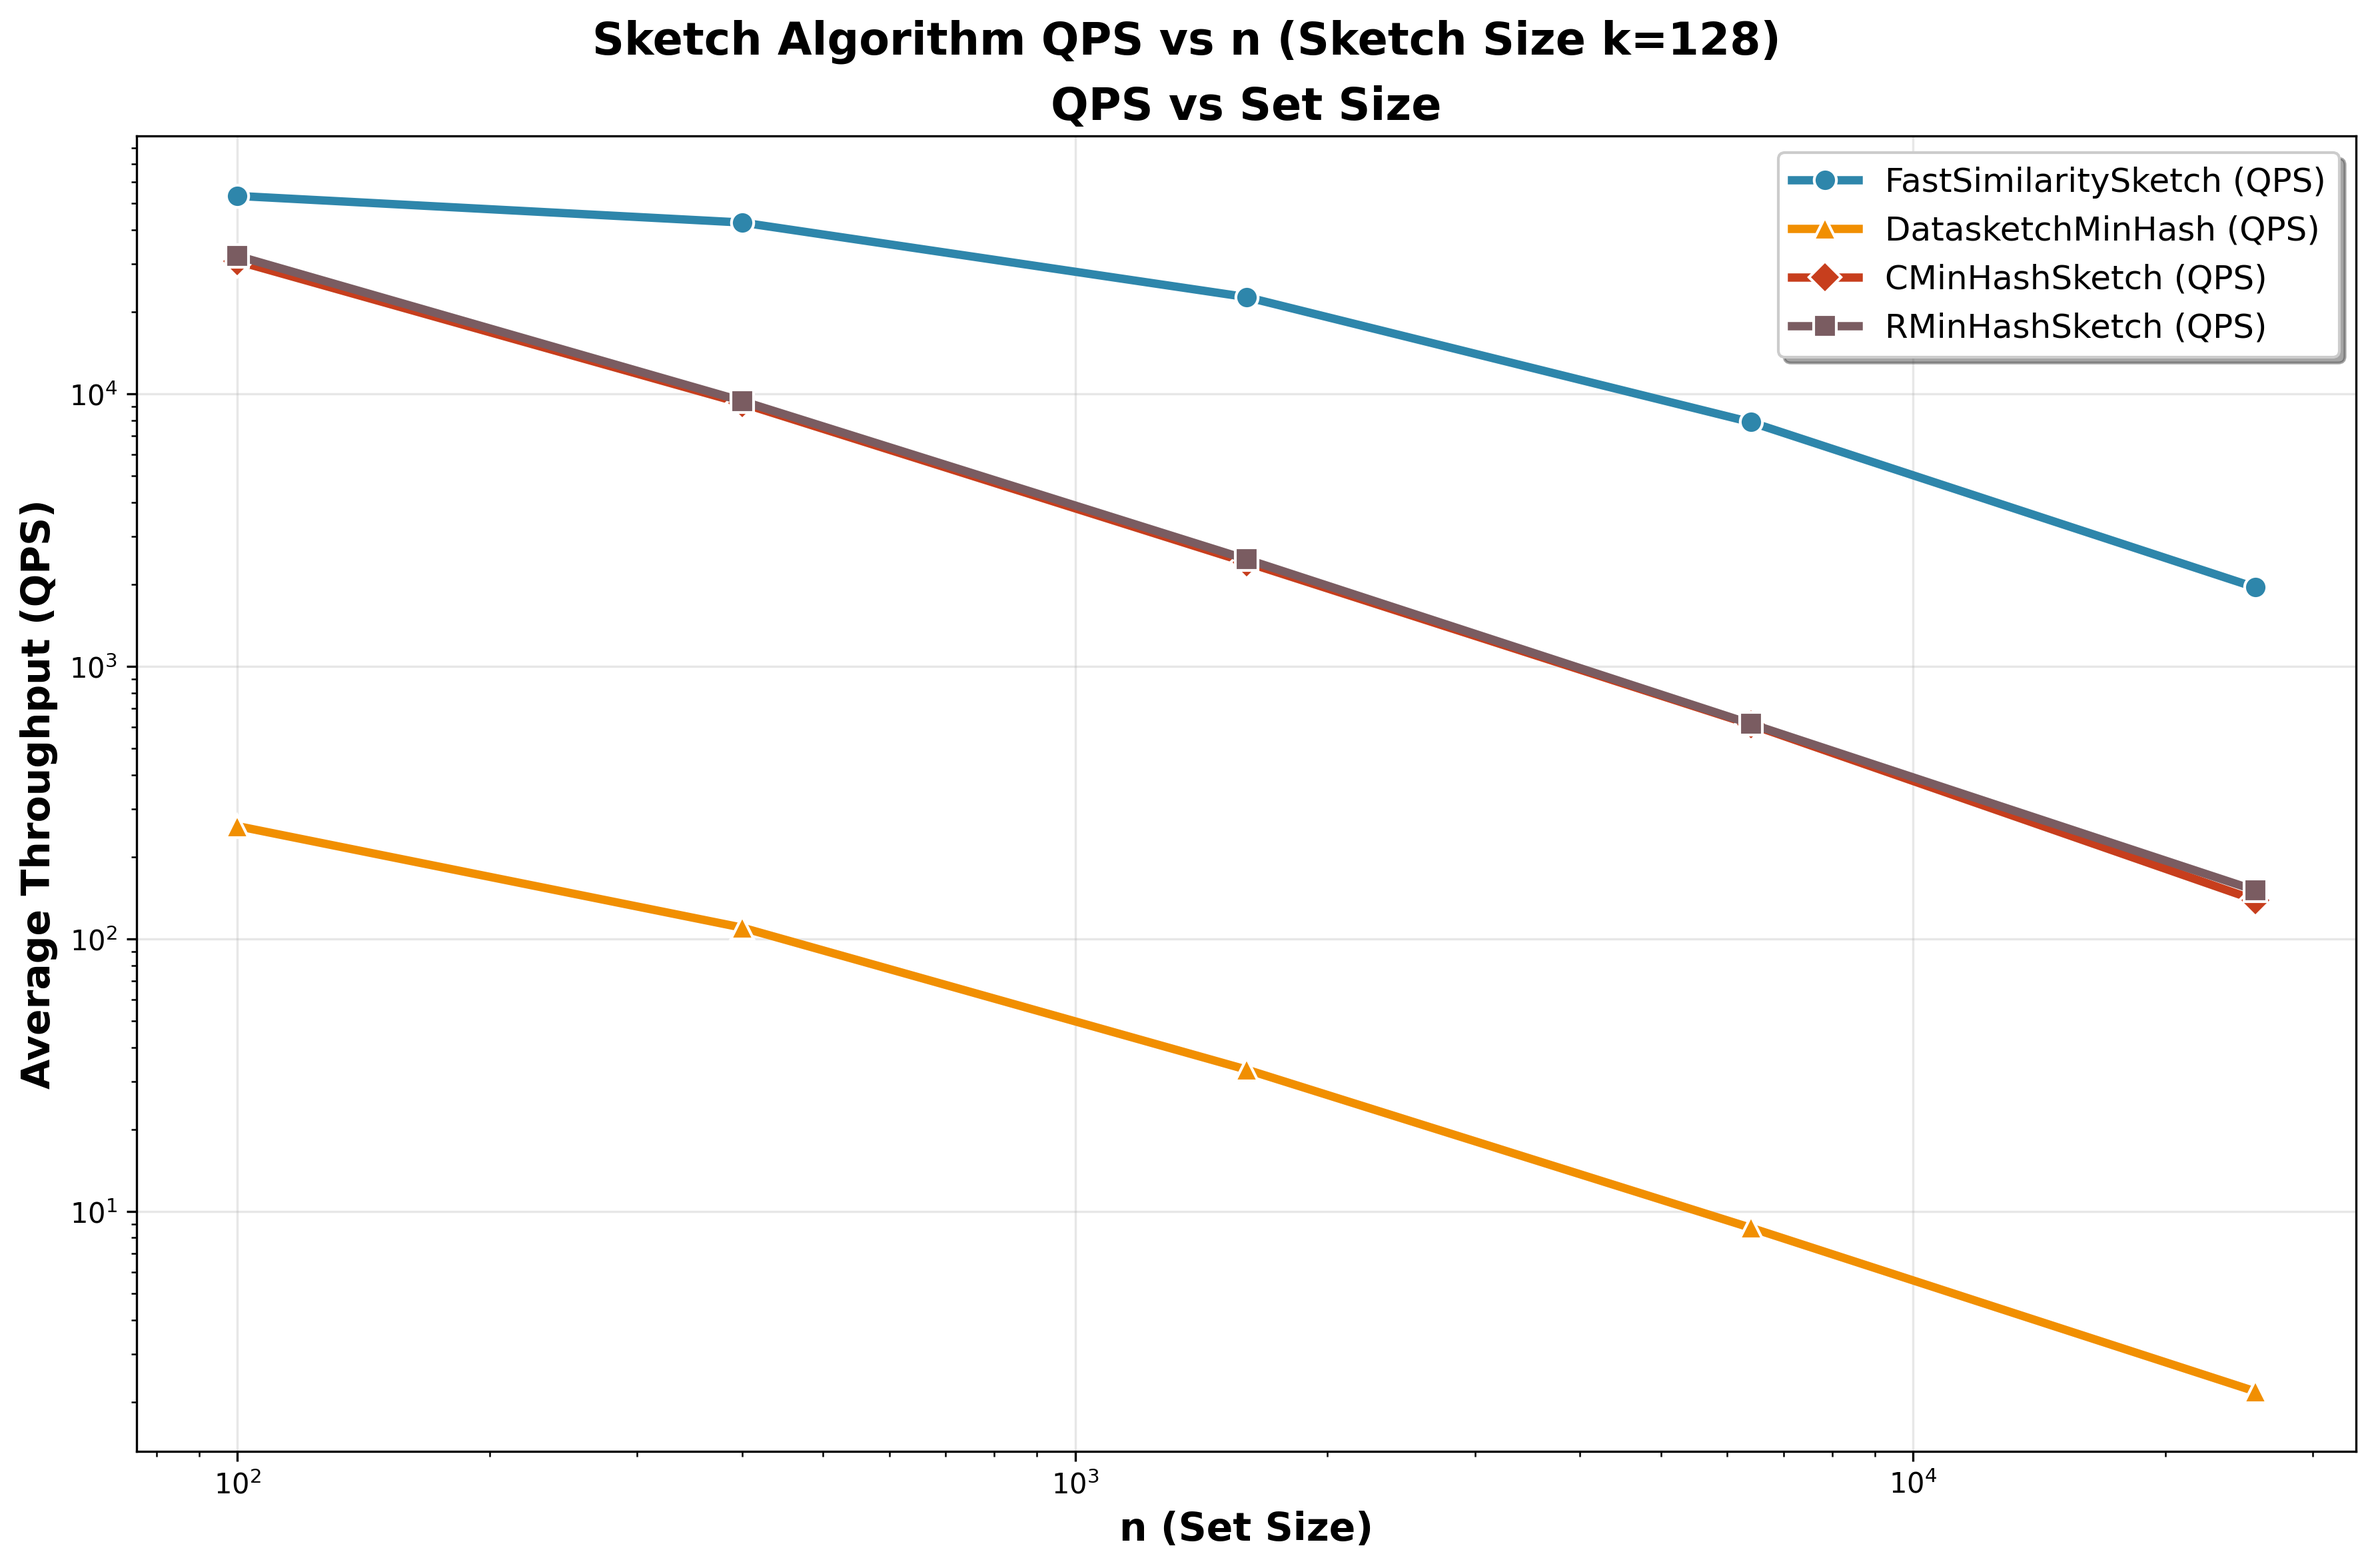
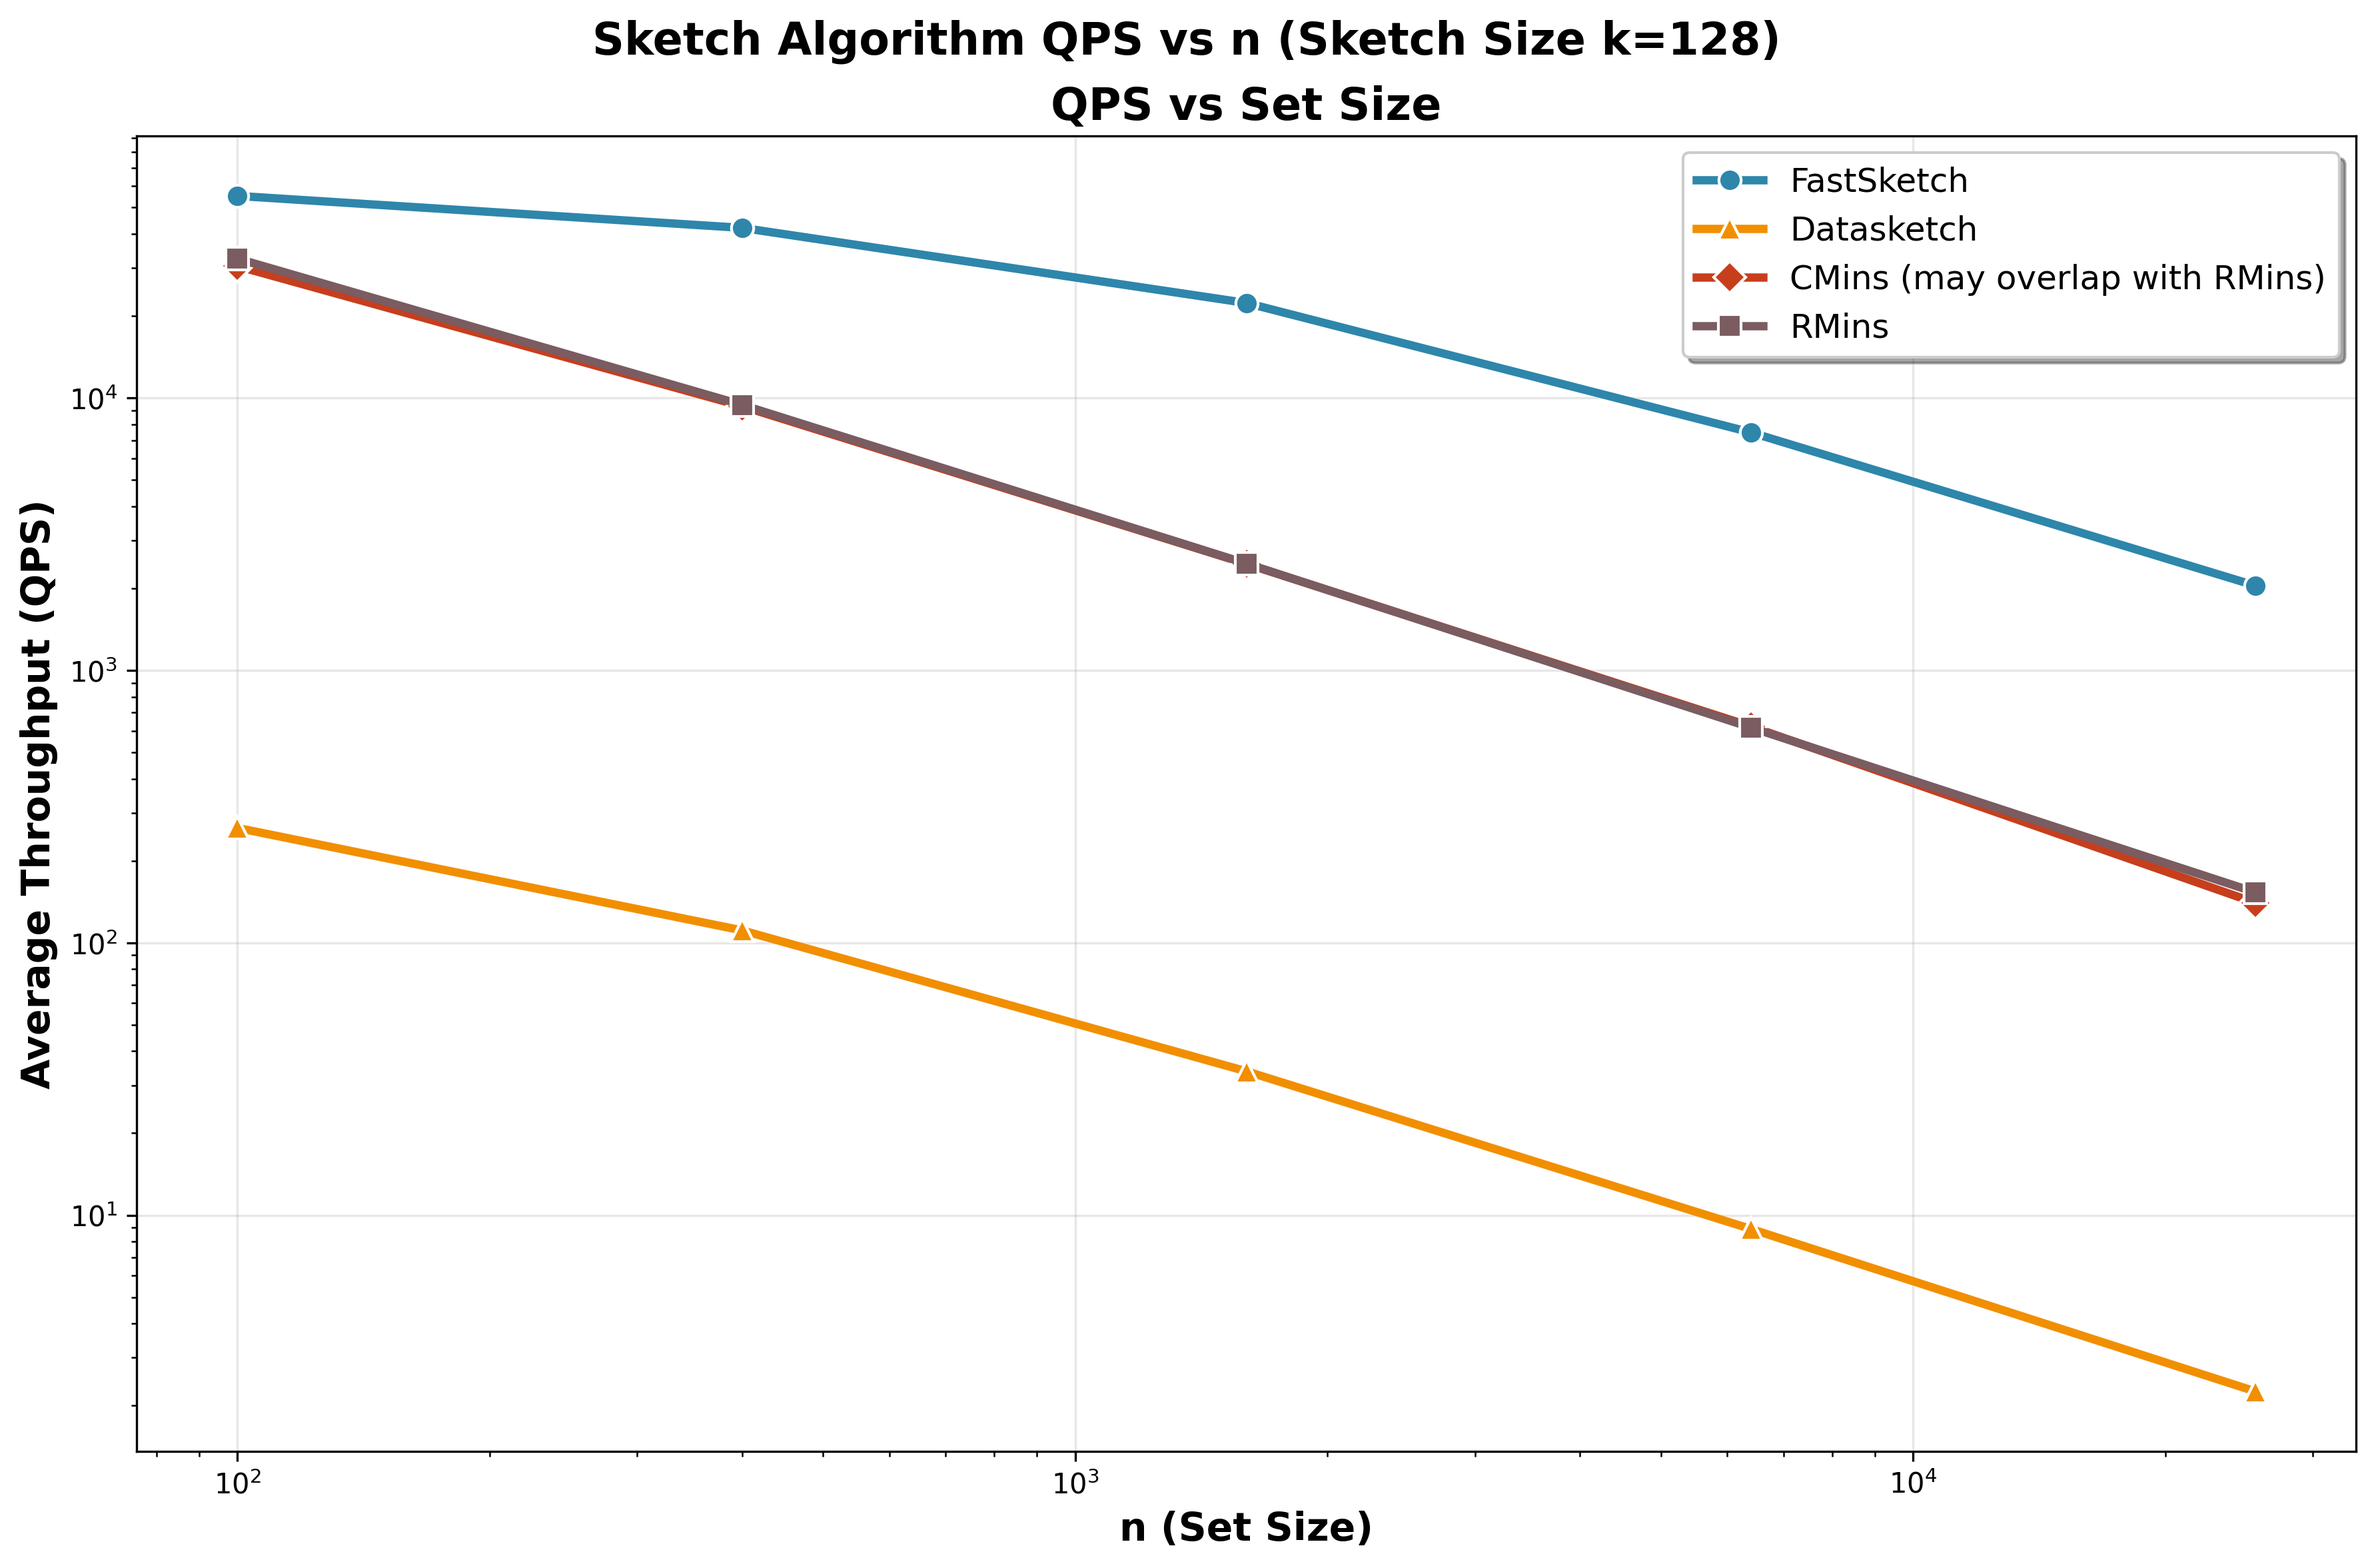
Update README and plot comparison scripts to reflect new performance metrics and visualizations. Replace outdated image references and enhance plot labels for clarity. Remove obsolete README file from fastsketchlsh_ext directory.

diff --git a/exps/sketch/records/plot_comparison_results.py b/exps/sketch/records/plot_comparison_results.py
@@ -115,19 +115,19 @@ class ComparisonResultsPlotter:
         # Plot QPS vs k
         ax.plot(filtered_data['k'], fast_qps,
                color=colors['fast'], marker=markers['fast'], linewidth=3, markersize=8,
-               label='FastSimilaritySketch (QPS)', markeredgecolor='white', markeredgewidth=1)
+               label='FastSketch', markeredgecolor='white', markeredgewidth=1)
         # KMinSketch line removed
         ax.plot(filtered_data['k'], ds_qps,
                color=colors['datasketch'], marker=markers['datasketch'], linewidth=3, markersize=8,
-               label='DatasketchMinHash (QPS)', markeredgecolor='white', markeredgewidth=1)
+               label='Datasketch', markeredgecolor='white', markeredgewidth=1)
         ax.plot(filtered_data['k'], cmins_qps,
                color=colors['cmins'], marker=markers['cmins'], linewidth=3, markersize=8,
-               label='CMinHashSketch (QPS)', markeredgecolor='white', markeredgewidth=1)
+               label='CMins (may overlap with RMins)', markeredgecolor='white', markeredgewidth=1)
         # Optional: RMinHashSketch if present
         if rmins_qps is not None:
             ax.plot(filtered_data['k'], rmins_qps,
                    color=colors['rmins'], marker=markers['rmins'], linewidth=3, markersize=8,
-                   label='RMinHashSketch (QPS)', markeredgecolor='white', markeredgewidth=1)
+                   label='RMins', markeredgecolor='white', markeredgewidth=1)
         
         ax.set_xlabel('k (Sketch Size)', fontsize=14, fontweight='bold')
         ax.set_ylabel('Average Throughput (QPS)', fontsize=14, fontweight='bold')
@@ -192,19 +192,19 @@ class ComparisonResultsPlotter:
         # Plot QPS vs n
         ax.plot(filtered_data['n'], fast_qps,
                color=colors['fast'], marker=markers['fast'], linewidth=3, markersize=8,
-               label='FastSimilaritySketch (QPS)', markeredgecolor='white', markeredgewidth=1)
+               label='FastSketch', markeredgecolor='white', markeredgewidth=1)
         # KMinSketch line removed
         ax.plot(filtered_data['n'], ds_qps,
                color=colors['datasketch'], marker=markers['datasketch'], linewidth=3, markersize=8,
-               label='DatasketchMinHash (QPS)', markeredgecolor='white', markeredgewidth=1)
+               label='Datasketch', markeredgecolor='white', markeredgewidth=1)
         ax.plot(filtered_data['n'], cmins_qps,
                color=colors['cmins'], marker=markers['cmins'], linewidth=3, markersize=8,
-               label='CMinHashSketch (QPS)', markeredgecolor='white', markeredgewidth=1)
+               label='CMins (may overlap with RMins)', markeredgecolor='white', markeredgewidth=1)
         # Optional: RMinHashSketch if present
         if rmins_qps is not None:
             ax.plot(filtered_data['n'], rmins_qps,
                    color=colors['rmins'], marker=markers['rmins'], linewidth=3, markersize=8,
-                   label='RMinHashSketch (QPS)', markeredgecolor='white', markeredgewidth=1)
+                   label='RMins', markeredgecolor='white', markeredgewidth=1)
         
         ax.set_xlabel('n (Set Size)', fontsize=14, fontweight='bold')
         ax.set_ylabel('Average Throughput (QPS)', fontsize=14, fontweight='bold')
@@ -272,7 +272,7 @@ def main():
     
     # Generate plots
     print(f"\nGenerating performance plots...")
-    plotter.plot_k_trends(fixed_n=1000)
+    plotter.plot_k_trends(fixed_n=1600)
     plotter.plot_n_trends(fixed_k=128)
     
     print(f"\nVisualization complete! Figures saved in records directory.")

diff --git a/README.md b/README.md
@@ -3,7 +3,7 @@
 ## Introduction
 FastSketchLSH delivers a Python-first package that wraps a high-performance C++/SIMD implementation of Fast Similarity Sketch (see Dahlgaard et al., FOCS'17 [arXiv:1704.04370](https://arxiv.org/abs/1704.04370) for the underlying algorithm). The goal is to make Jaccard estimation and locality-sensitive hashing (LSH) practical for large dataset deduplication.
 
-![FastSimilaritySketch throughput advantage](exps/sketch/records/minhash_QPS_vs_k_n1000.png)
+![FastSimilaritySketch throughput advantage](exps/sketch/records/minhash_QPS_vs_k_n1600.png)
 
 | Dataset | Engine | Sketch (s) | Build (s) | Query (s) | Total (s) | FastSketchLSH Sketch Speedup | FastSketchLSH Total Speedup |
 |---------|--------|------------|-----------|-----------|-----------|--------------------------|------------------------|
